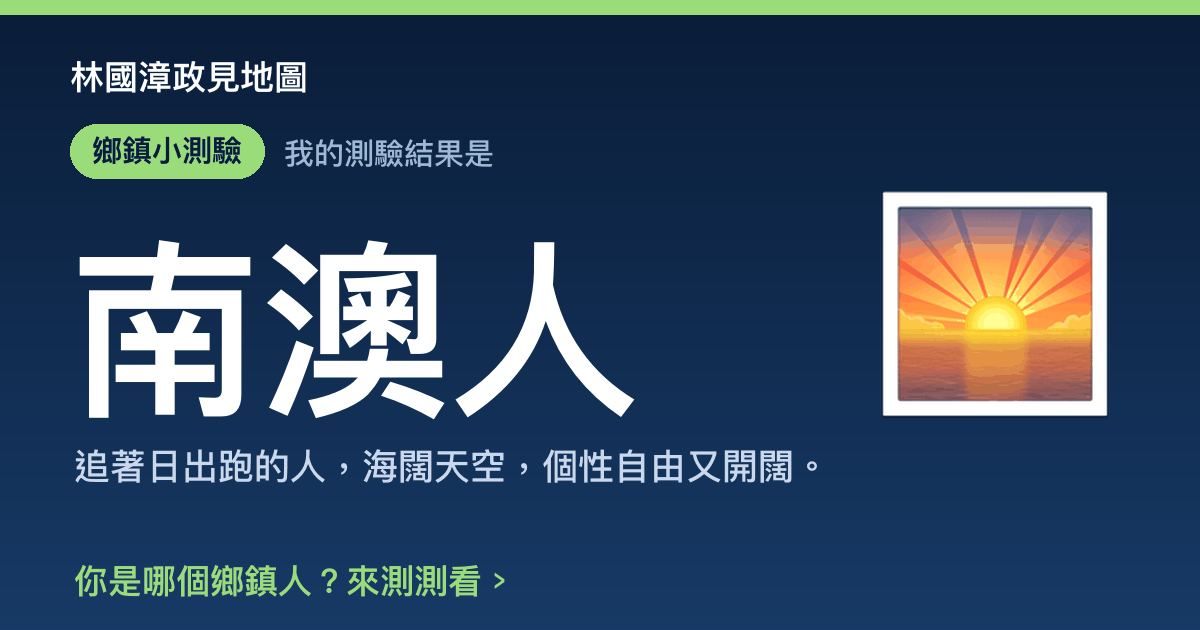
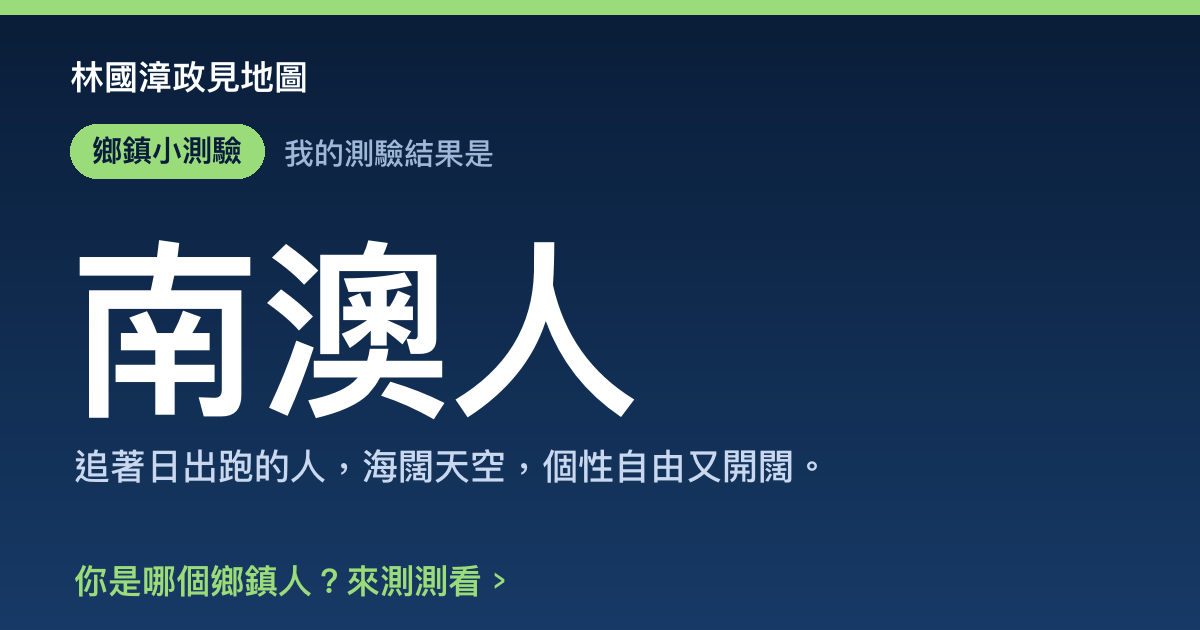
v87: 圖卡右上角拿掉、底部改為「宜蘭縣長候選人 ①林國漳」、鄉鎮 emoji 全部拿掉

Changed region(s): [[0.7092, 0.3016, 0.925, 0.6635]]

diff --git a/index.html b/index.html
@@ -1213,7 +1213,7 @@ function renderLabels(){
   if(b.w>=640||z>1.35)TOWNS.forEach(function(t){
     var o=ICONS[t.id];if(!o)return;var q=P(t.lab[0],t.lab[1]),X=sx(q[0]),Y=sy(q[1])+21;
     if(X<-30||X>b.w+30||Y<-20||Y>b.h+20)return;
-    h+='<div class="lb ic2" style="left:'+f1(X)+'px;top:'+f1(Y)+'px">'+o[0]+(z>1.7?'<i>'+esc(o[1])+'</i>':'')+'</div>';
+    if(z>1.7)h+='<div class="lb ic2" style="left:'+f1(X)+'px;top:'+f1(Y)+'px"><i>'+esc(o[1])+'</i></div>';
   });
   if(z>1.15)SHIELDS.forEach(function(s){
     if(s.id==='tra'&&!true)return;var q=P(s.lon,s.lat);place(q[0],q[1],esc(s.txt),'sh '+s.cls,s.txt.length*12+16,18,false);
@@ -2011,7 +2011,7 @@ var ICONS={
  datong:['⛰','太平山','國家森林遊樂區，有翠峰湖與見晴懷古步道，也是泰雅族的家鄉。'],
  nanao:['🌅','朝陽國家步道','全長約 2.2 公里，沿途可以俯瞰南澳灣與烏石鼻海岸。']
 };
-function iconBox(id){var o=ICONS[id];if(!o)return '';return '<div class="need loc"><b>'+o[0]+'　在地代表：'+esc(o[1])+'</b><p>'+esc(o[2])+'</p><button class="go" type="button" data-tcard="'+id+'">存成鄉鎮圖卡</button></div>'}
+function iconBox(id){var o=ICONS[id];if(!o)return '';return '<div class="need loc"><b>在地代表：'+esc(o[1])+'</b><p>'+esc(o[2])+'</p><button class="go" type="button" data-tcard="'+id+'">存成鄉鎮圖卡</button></div>'}
 
 /* ================= overlay + 抽政見籤 + 我的政見單 ================= */
 var OV=document.createElement('div');OV.className='ov';OV.id='ov';OV.hidden=true;document.body.appendChild(OV);
@@ -2075,17 +2075,18 @@ function cvHead(c,W){
   c.textBaseline='alphabetic';c.textAlign='left';
   c.fillStyle='#9ADB7A';c.fillRect(0,0,W,16);
   c.font='900 38px '+CV_F;c.fillText('林國漳政見地圖',64,100);
-  if(BALLOT_NO){
-    var cx=W-64-30,cy=88;
-    c.fillStyle='#9ADB7A';c.beginPath();c.arc(cx,cy,30,0,Math.PI*2);c.fill();
-    c.fillStyle='#0A1D38';c.font='900 40px '+CV_F;c.textAlign='center';c.fillText(String(BALLOT_NO),cx,cy+14);
-    c.textAlign='right';c.fillStyle='#C9D8EE';c.font='700 32px '+CV_F;c.fillText('縣長候選人',cx-30-16,cy+11);c.textAlign='left';
-  }
 }
 function cvFoot(c,W){
   c.fillStyle='#9ADB7A';c.fillRect(64,1176,W-128,4);
   c.font='900 64px '+CV_F;c.fillText(typeof SLOGAN==='string'&&SLOGAN?SLOGAN:'林國漳',64,1252);
-  c.fillStyle='#fff';c.font='700 32px '+CV_F;c.fillText('宜蘭縣長候選人 林國漳・投票日 2026/11/28',64,1300);
+  c.fillStyle='#fff';c.font='700 32px '+CV_F;
+  if(BALLOT_NO){
+    var t1='宜蘭縣長候選人',w1=c.measureText(t1).width,bx=64+w1+14+22;
+    c.fillText(t1,64,1300);
+    c.fillStyle='#9ADB7A';c.beginPath();c.arc(bx,1289,22,0,Math.PI*2);c.fill();
+    c.fillStyle='#0A1D38';c.font='900 28px '+CV_F;c.textAlign='center';c.fillText(String(BALLOT_NO),bx,1299);c.textAlign='left';
+    c.fillStyle='#fff';c.font='700 32px '+CV_F;c.fillText('林國漳',bx+22+14,1300);
+  }else c.fillText('宜蘭縣長候選人 林國漳',64,1300);
 }
 function cvNew(){var cv=document.createElement('canvas');cv.width=1080;cv.height=1350;return cv}
 function cvBG(c,W,H){var g=c.createLinearGradient(0,0,0,H);g.addColorStop(0,'#0A1D38');g.addColorStop(1,'#173A66');c.fillStyle=g;c.fillRect(0,0,W,H)}
@@ -2261,7 +2262,6 @@ function drawQuizCard(id){
   cvBG(c,W,H);cvHead(c,W);
   c.fillStyle='#C9D8EE';c.font='700 52px '+CV_F;c.fillText('我是',64,200);
   c.fillStyle='#fff';c.font='900 230px '+CV_F;c.fillText(qzShort(t)+'人',64,440);
-  if(o[0]){c.font='150px '+CV_F;c.textAlign='right';c.fillText(o[0],W-64,420);c.textAlign='left'}
   c.fillStyle='#C9D8EE';c.font='600 46px '+CV_F;
   var ql=cvWrap(c,QT[id]||'',W-128,2);
   if(ql.length===2&&ql[1].length<=6)ql=cvWrap(c,QT[id],(W-128)*.7,2);
@@ -2421,7 +2421,6 @@ function drawTownCard(id){
   c.font='900 34px '+CV_F;var kt='鄉鎮市・'+t.g,cw=c.measureText(kt).width+48;
   c.fillStyle=TC[TI[id]];rrect(c,64,150,cw,56,28);c.fill();c.fillStyle='#0A1D38';c.fillText(kt,88,190);
   c.fillStyle='#fff';c.font='900 140px '+CV_F;c.fillText(t.n,64,350);
-  if(o[0]){c.font='120px '+CV_F;c.textAlign='right';c.fillText(o[0],W-64,350);c.textAlign='left'}
   if(o[1]){
     c.fillStyle='#9ADB7A';c.font='900 46px '+CV_F;c.fillText('在地代表：'+o[1],64,440);
     c.fillStyle='#C9D8EE';c.font='600 36px '+CV_F;cvWrap(c,o[2],W-128,2).forEach(function(s,i){c.fillText(s,64,498+i*52)});
@@ -2459,7 +2458,7 @@ function drawWallCard(){
   return cv;
 }
 function openWallCard(){openImg(drawWallCard(),'林國漳政見重點數字｜林國漳政見地圖',SHARE_BASE||location.href.split('#')[0],'林國漳-重點數字.png')}
-var BUILD='10/29 第 86 版';
+var BUILD='10/29 第 87 版';
 var XL=false;try{XL=localStorage.getItem('xl')==='1'}catch(e){}
 if(/[?&]xl=1/.test(location.search))XL=true;
 function setXL(v){
